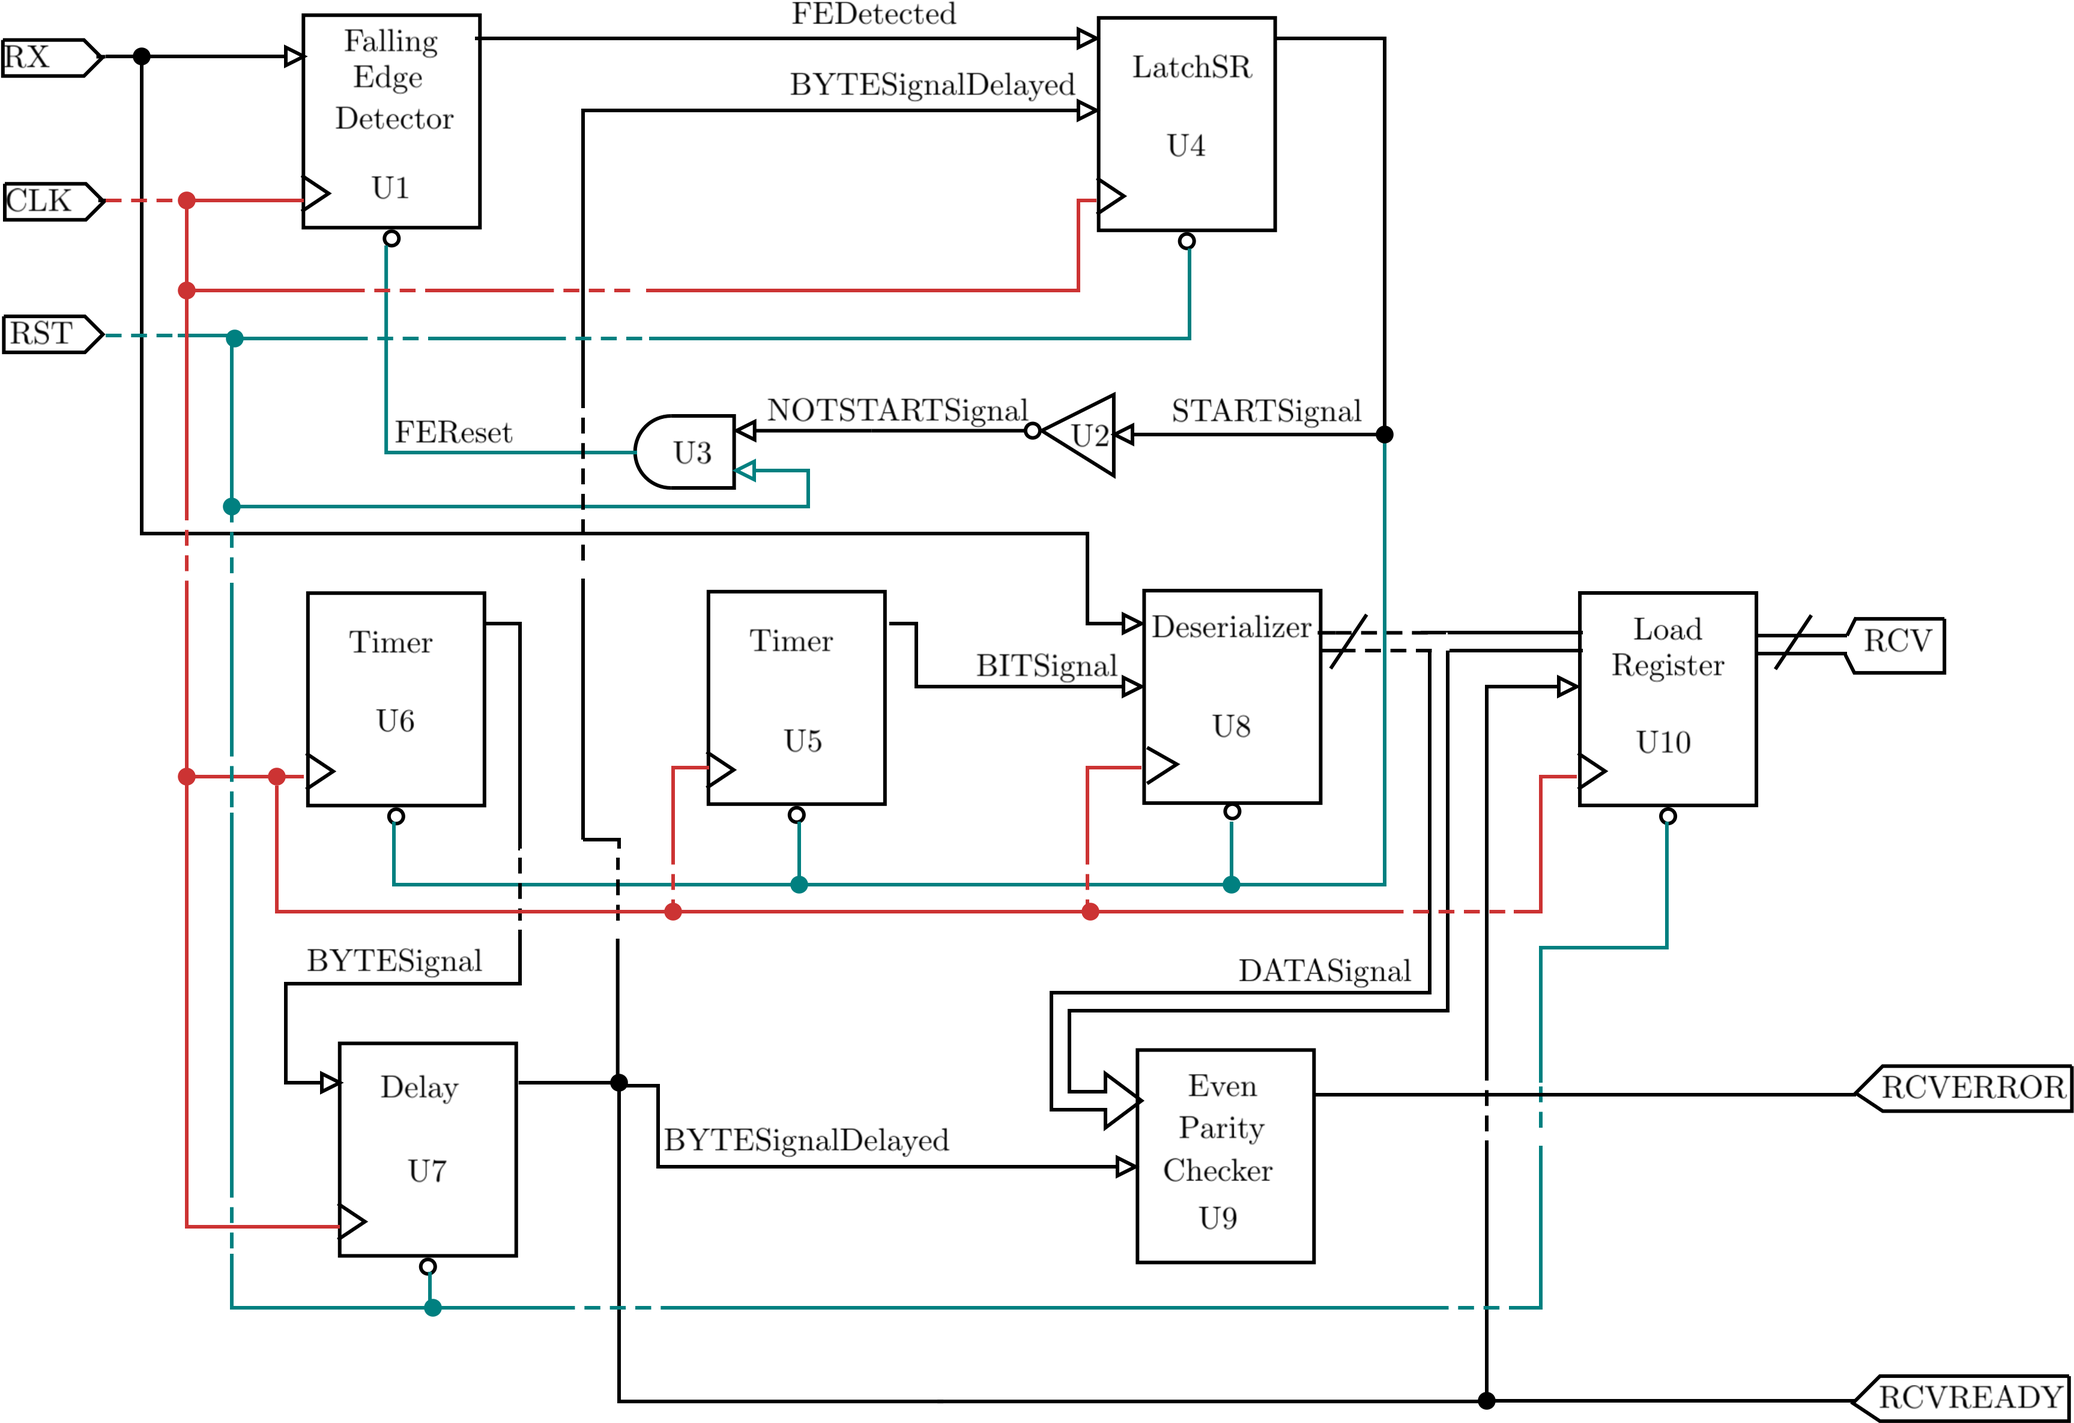
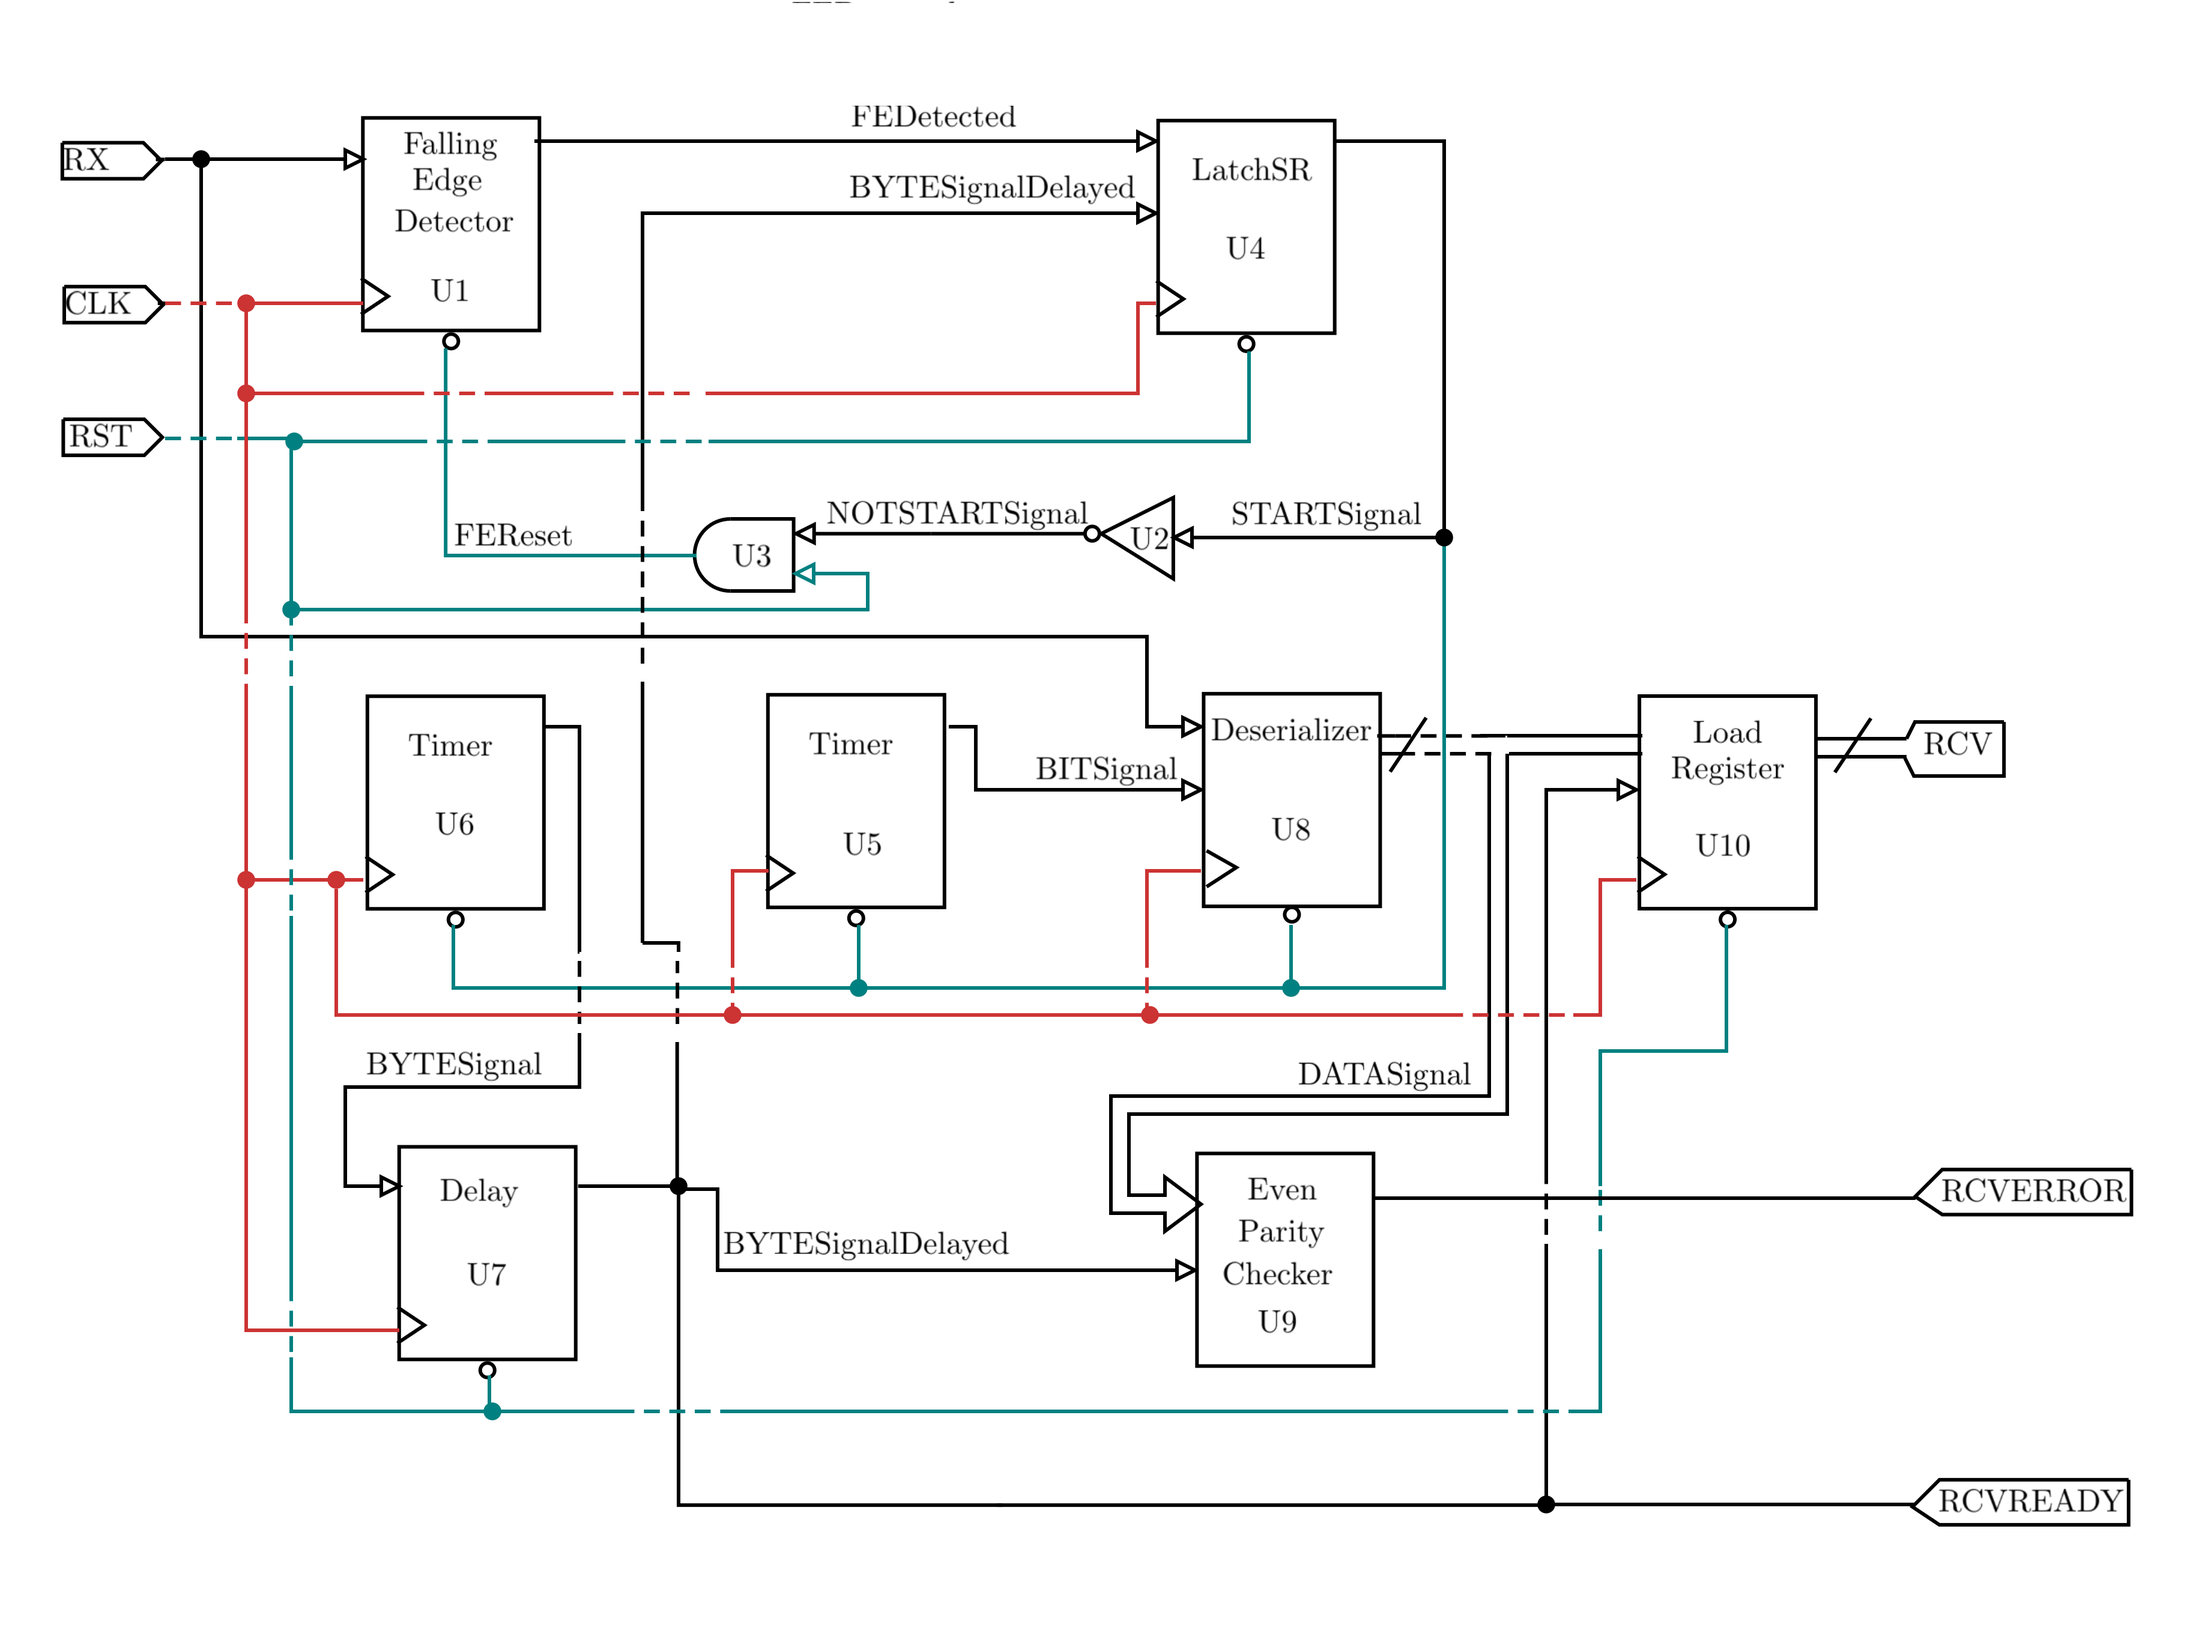
Info

diff --git a/README.md b/README.md
@@ -1,0 +1,10 @@
+# UART receiver<br><br>
+
+## Description:
+A UART receiver with bauds, data width, even parity and stop bit configuration.
+The amount of resources consumed by this implementation with 115200 bauds, 8 data bits, 1 parity bit and 1 stop bit are: <strong>30 LUTs + 54 FFs</strong> (Vivado 19.1, Build 2552052).
+
+The following diagram corresponds to the top level file. The clock signal net is shown in red, reset signal is shown in aqua. Thin signals correspond to a width of 1 bit, thick signals to a width of n bits.
+
+![Circuit's diagram](SerialRx.png)
+
